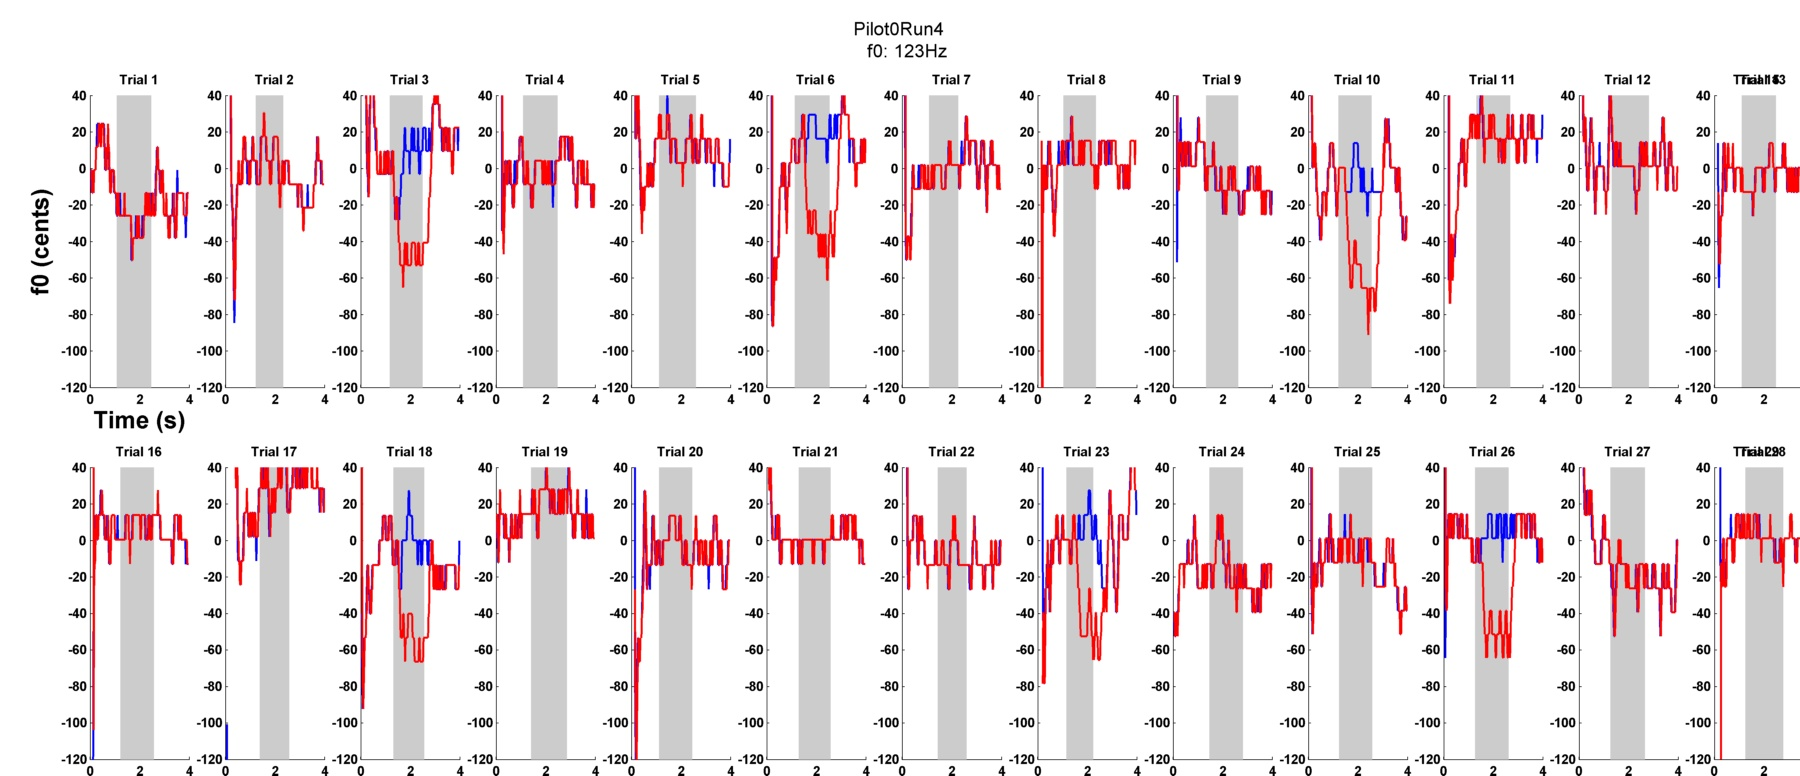
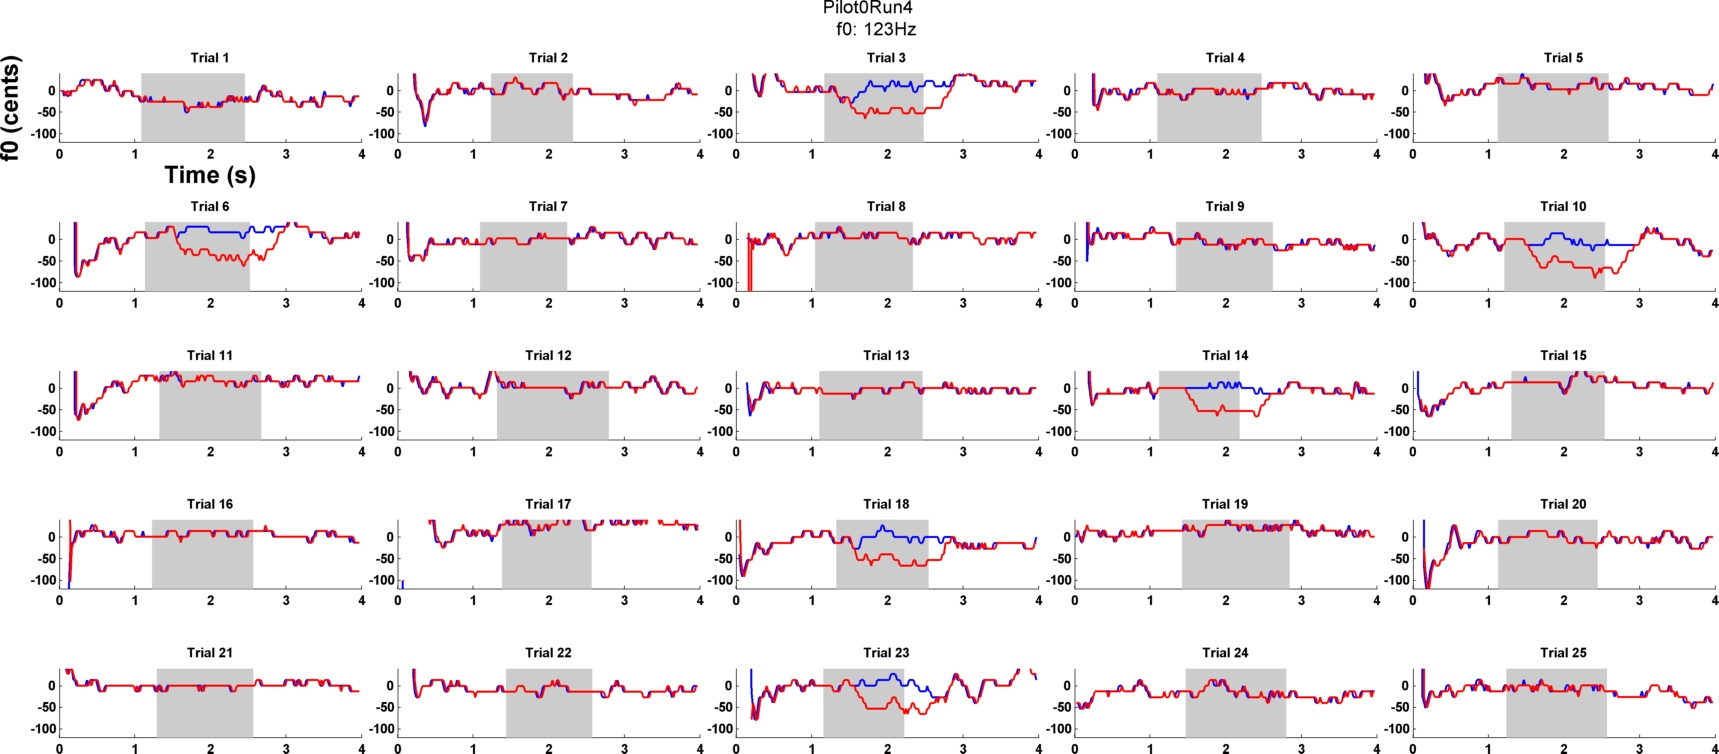
small things
Just keep things consistent

diff --git a/Analysis/drawAudResp_allTrial.m b/Analysis/drawAudResp_allTrial.m
@@ -8,7 +8,7 @@ baselinef0 = res.meanTrialf0b;
 numTrial   = res.trialCount;
 limits     = res.f0Limits;
 
-numColumn = numTrial/2;
+numRow = numTrial/5;
 
 plotpos = [100 100];
 plotdim = [1800 800];
@@ -20,7 +20,7 @@ curRec(strfind(curRec, '_')) = ' ';
 
 pertColor = [0.8 0.8 0.8];
 
-ha = tight_subplot(2, numColumn, [0.1 0.02],[0.05 0.12],[0.05 0.03]);
+ha = tight_subplot(numRow, 5, [0.1 0.02],[0.05 0.12],[0.05 0.03]);
 
 for ii = 1:numTrial      
     axes(ha(ii))

diff --git a/Analysis/SFPerturb_Analysis2.m b/Analysis/SFPerturb_Analysis2.m
@@ -21,7 +21,7 @@ PltTgl.svInflaRespRoute  = 0;
 
 AVar.project      = 'Dissociating-Role-of-Feedback-in-Voice-Motor-Control';
 AVar.participant  = 'Pilot0'; %List of multiple participants.
-AVar.run          = 'Run5';
+AVar.run          = 'Run4';
 
 dirs = dfDirs(AVar.project);
 

diff --git a/Analysis/OfflineAudapterPlay.m b/Analysis/OfflineAudapterPlay.m
@@ -7,7 +7,7 @@ if isempty(varargin)
 else
 end
 
-collectNewData         = 0; %Boolean
+collectNewData         = 1; %Boolean
 sv2F                   = 1; %Boolean
 
 %Experiment Configurations
